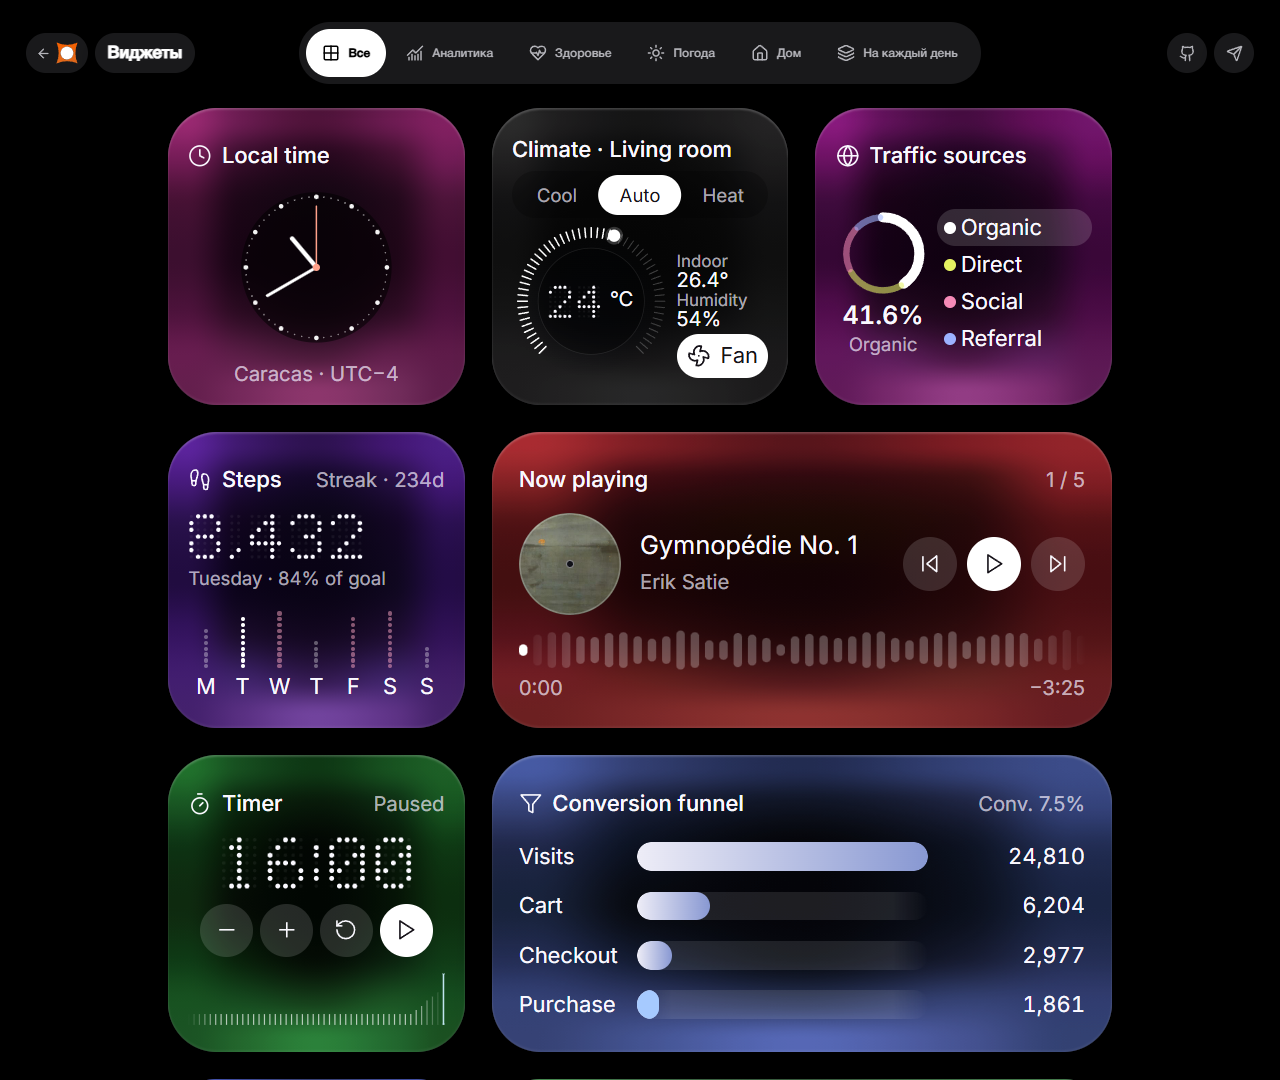
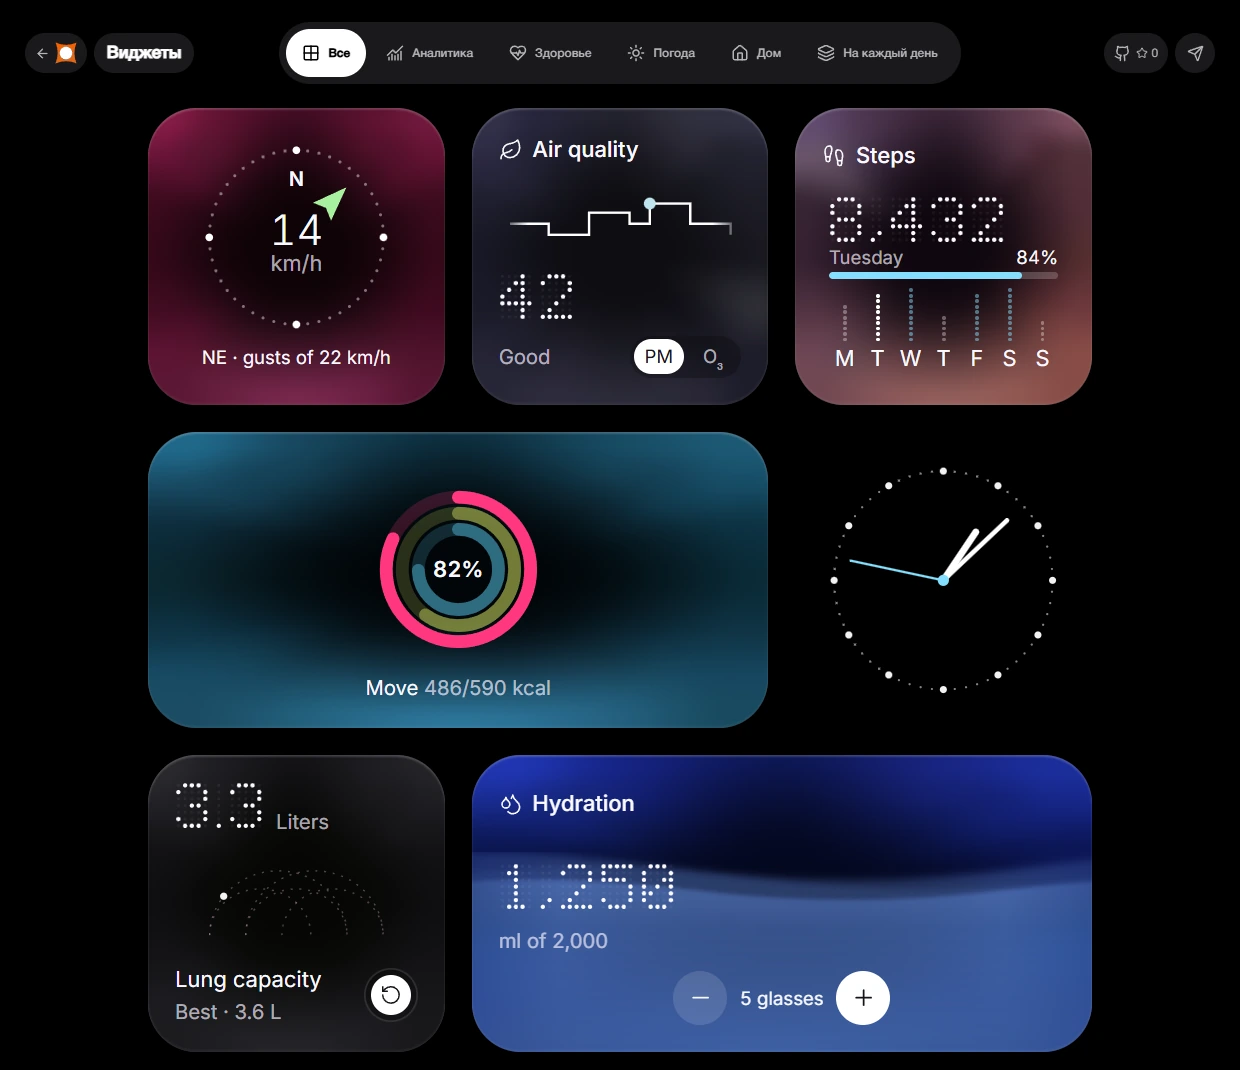
Show the full widget catalog in the README

diff --git a/README.md b/README.md
@@ -1,15 +1,51 @@
 # Виджеты · Redheadesign
 
-[Витрина](https://redheadesign.com/widgets/) · [Скачать набор](https://github.com/redheadesign/widgets/releases/latest/download/widgets-kit.zip) · [Библиотека React](docs/library.md) · [Виджеты в Telegram](docs/telegram.md)
+[Открыть витрину](https://redheadesign.com/widgets/) · [Скачать релиз](https://github.com/redheadesign/widgets/releases/latest/download/widgets-kit.zip) · [Подключить React](docs/library.md) · [Отправить в Telegram](docs/telegram.md)
 
-30 интерактивных карточек для сайтов, bento-сеток и сообщений Telegram. На широком экране витрина показывает три колонки и пропорционально увеличивает карточки вместе с текстом и графиками. На узких экранах сетка переходит на две или одну колонку. Раскладка, порядок и палитра меняются при каждом открытии. В студии можно переключить формат, настроить цвет и движение, посмотреть вариант для Telegram и забрать HTML или iframe.
+30 интерактивных компонентов React для сайтов, дашбордов и bento-сеток. В студии можно менять размер, цвет и движение карточки, проверить вариант для Telegram и забрать HTML или iframe. Экспорт для Telegram работает как отдельный HTML-виджет внутри сообщения бота в личном чате.
+
+На витрине 29 карточек, в том числе два эксперимента, Компас и Луна. Сетка подстраивается от одной до трёх колонок, а раскладка и палитра меняются при открытии. Можно фильтровать карточки по теме и пользоваться их управлением прямо на странице.
 
 ![Тёмная витрина виджетов в трёх колонках](docs/images/widgets-desktop.webp)
 
 <details>
 <summary>Витрина на телефоне</summary>
 
-![Виджеты в двух колонках на телефоне](docs/images/widgets-phone.webp)
+<img src="docs/images/widgets-phone.webp" width="390" alt="Виджеты в двух колонках на телефоне">
+
+</details>
+
+## Каталог в картинках
+
+### Аналитика
+
+![Выручка, активные пользователи и удержание](docs/images/widgets-analytics.webp)
+![Воронка конверсии, месячная цель и котировки BTC](docs/images/widgets-finance.webp)
+
+### Здоровье и привычки
+
+![Шаги, пульс и кольца активности](docs/images/widgets-activity.webp)
+![Сон, средний уровень глюкозы и объём лёгких](docs/images/widgets-health.webp)
+![Стаканы воды, дыхание и таймер](docs/images/widgets-routines.webp)
+
+### Погода
+
+![Погода в городе, качество воздуха и УФ-индекс](docs/images/widgets-weather.webp)
+![Путь солнца, направление ветра и фаза Луны](docs/images/widgets-sky.webp)
+
+### Дом и навигация
+
+![Термостат, свет и замок в формате 1 × 2](docs/images/widgets-home.webp)
+![Потребление энергии и компас](docs/images/widgets-energy.webp)
+
+### На каждый день
+
+![Музыкальный плеер, часы и список напоминаний](docs/images/widgets-everyday.webp)
+
+<details>
+<summary>Ещё три компонента из студии</summary>
+
+![Календарь, источники трафика и почасовой прогноз](docs/images/widgets-studio-extra.webp)
 
 </details>
 
@@ -28,11 +64,13 @@ npm run dev -- --host 127.0.0.1
 
 ## Подключить к React
 
-Установите React-пакет из релиза:
+Для React 19 используйте пакет из последнего релиза:
 
 ```sh
 npm install https://github.com/redheadesign/widgets/releases/download/v1.0.3/redheadesign-widgets-1.0.3.tgz
 ```
+
+Чтобы взять текущую версию из `main`, клонируйте репозиторий и запустите `npm ci` и `npm pack`. Установите полученный `.tgz` в приложении.
 
 Подключите стили один раз в точке входа приложения:
 
@@ -47,6 +85,10 @@ export function Dashboard() {
 
 `size="small"`, `"wide"` или `"large"` задаёт номинальный формат 1 × 1, 2 × 1 или 2 × 2. Для адаптивной сетки используйте `fill` и задайте размер родителю. Рекомендуемый минимум — 160 × 160 px. [Параметры, каталог и примеры](docs/library.md).
 
+## Отправить через бота Telegram
+
+Скачайте HTML из студии или сгенерируйте его через `buildTelegramHtml('hydration')` из `@redheadesign/widgets/telegram`. Пользователь должен открыть личный чат с ботом и нажать «Старт». Затем бот передаёт HTML и `chat_id` методу `sendWidget`. [Пример отправки и ограничения HTML](docs/telegram.md).
+
 ## Собрать и проверить
 
 ```sh
@@ -59,4 +101,4 @@ npm run check:telegram -- --exact --write
 
 При запущенной студии `npm run qa:landing` проверяет геометрию, фильтры и рандомизацию витрины в Edge. `npm run qa:web` запускает основные действия всех веб-карточек в трёх форматах.
 
-Карточки здоровья, погоды, аналитики и умного дома используют демонстрационные данные. Плеер воспроизводит пять записей CC0 на вебе. [Сведения об аудио, обложке и шрифте](ATTRIBUTION.md).
+Карточки здоровья, погоды, аналитики и умного дома используют демонстрационные данные. Плеер воспроизводит пять записей CC0 на вебе. [Источники аудио, обложек и шрифта](ATTRIBUTION.md) · [Снимок Луны NASA SVS](src/widgets/astronomy-assets/ATTRIBUTION.md)

diff --git a/docs/library.md b/docs/library.md
@@ -1,6 +1,6 @@
 # Библиотека компонентов
 
-`@redheadesign/widgets` — ESM-пакет для React 19 с типами TypeScript, стилями и фонами карточек. Он использует те же компоненты, что и студия и галерея. HTML-экспорт для сообщений Telegram доступен через отдельный импорт и работает в Node.js без DOM.
+`@redheadesign/widgets` — ESM-пакет из 30 компонентов для React 19 с типами TypeScript, стилями и фонами карточек. Студия использует этот каталог, а витрина показывает 27 карточек из него и два отдельных эксперимента, Компас и Луну. HTML-экспорт для сообщений Telegram доступен через отдельный импорт и работает в Node.js без DOM.
 
 ## Установка
 
@@ -54,6 +54,16 @@ export function Dashboard() {
 | `style` | Дополнительные CSS-свойства внешней рамки, например `{ height: 192 }`. |
 
 `widgetCatalog` содержит идентификатор, название, категорию, исходный размер, палитру, описание управления и React-компонент каждой карточки. Для поиска по идентификатору используйте `widgetsById`. Экспорты `WidgetFrame`, `WidgetCard`, `DotNumber` и тип `WidgetDefinition` позволяют оформить собственную карточку. Для предпросмотра компонента из каталога рендерьте `Widget` или передавайте его описание в `WidgetFrame`, чтобы у него были стили, палитра и контекст анимации.
+
+### Идентификаторы виджетов
+
+| Категория | `id` для React и HTML-экспорта |
+| --- | --- |
+| Аналитика | `revenue`, `users`, `funnel`, `traffic`, `goal`, `retention` |
+| Здоровье | `heart-rate`, `activity`, `steps`, `sleep`, `lung-capacity`, `hydration`, `glucose`, `breathing` |
+| Погода | `weather`, `hourly`, `air-quality`, `uv-index`, `wind`, `sun` |
+| Дом | `thermostat`, `lights`, `energy`, `timer`, `lock` |
+| На каждый день | `clock`, `calendar`, `reminders`, `music`, `stocks` |
 
 Виджеты хранят интерактивное состояние внутри экземпляра. Перемонтирование сбрасывает его. Данные здоровья, погоды, котировок и аналитики заданы в примерах, а часы, календарь и таймер используют время устройства. Для подключения собственных данных используйте исходник карточки или соберите её на `WidgetFrame`.
 
